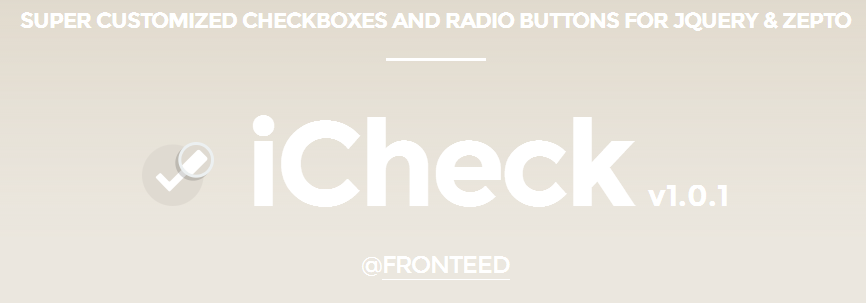
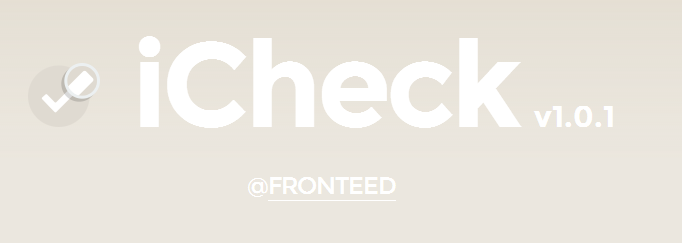
fix => 更改图片

diff --git a/2.组件/2.9.iCheck.md b/2.组件/2.9.iCheck.md
@@ -4,7 +4,7 @@
 ## 前言
 
 ![logo](../img/icheck/check.png)
-![效果图](../img/icheck/ichecks.jpg)
+![效果图](../img/icheck/che.png)
 
 > iCheck是一款对checkbox的美化插件，支持几乎所有浏览器包括移动浏览器。它支持所有选择器 ( selectors )，并且只针对复选框和单选按钮起作用。
 
@@ -160,22 +160,36 @@ $(document).ready(function(){
 - iCheck 每种皮肤中包含10种不同的可用样式，上述案例以Green为例；
 
     Black — square.css | Grey — grey.css
+
     Red — red.css | Orange — orange.css
+
     Green — green.css | Yellow — yellow.css
+
     Blue — blue.css | Pink — pink.css
+
     Aero — aero.css | Purple — purple.css
+    
 
 - iCheck 提供了大量回调事件，都可以用来监听change事件。
 
 事件名称 | 使用时机
+
 ifClicked | 用户点击了自定义的输入框或与其相关联的label
+
 ifChanged | 输入框的 checked 或 disabled 状态改变了
+
 ifChecked | 输入框的状态变为 checked
+
 ifUnchecked | checked 状态被移除
+
 ifDisabled | 输入框状态变为 disabled
+
 ifEnabled | disabled 状态被移除
+
 ifCreated | 输入框被应用了iCheck样式
+
 ifDestroyed | iCheck样式被移除
+
 
 ## 常用方法
 
